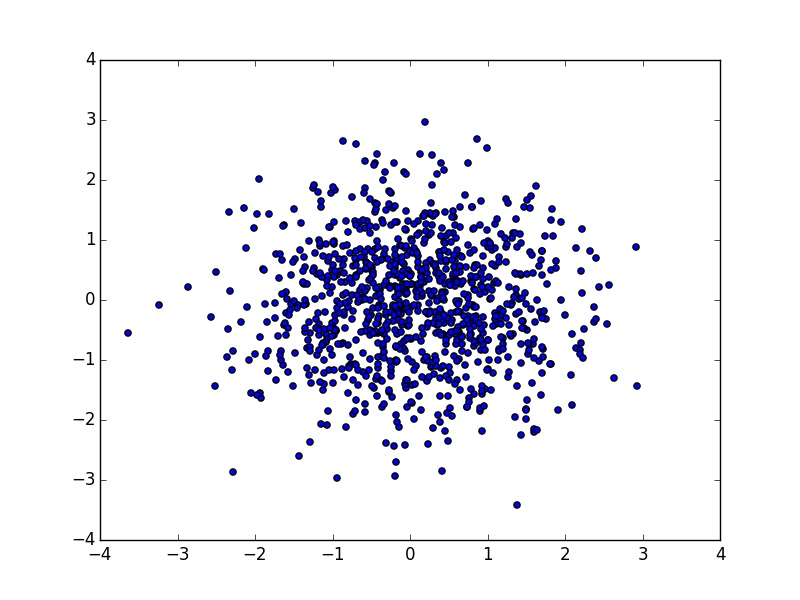
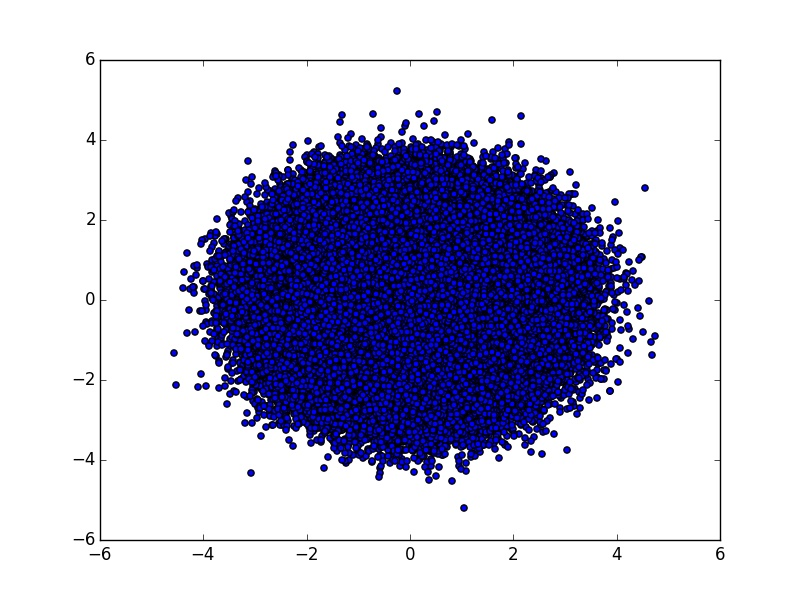
modificado

diff --git a/ev3/gra/gd.py b/ev3/gra/gd.py
@@ -4,7 +4,7 @@ import matplotlib.pyplot as pl
 import numpy as np
 
 ax = pl.gca()
-n = 1024
+n = 1000000##1024
 x = np.random.normal(0,1,n)
 y = np.random.normal(0,1,n)
 
